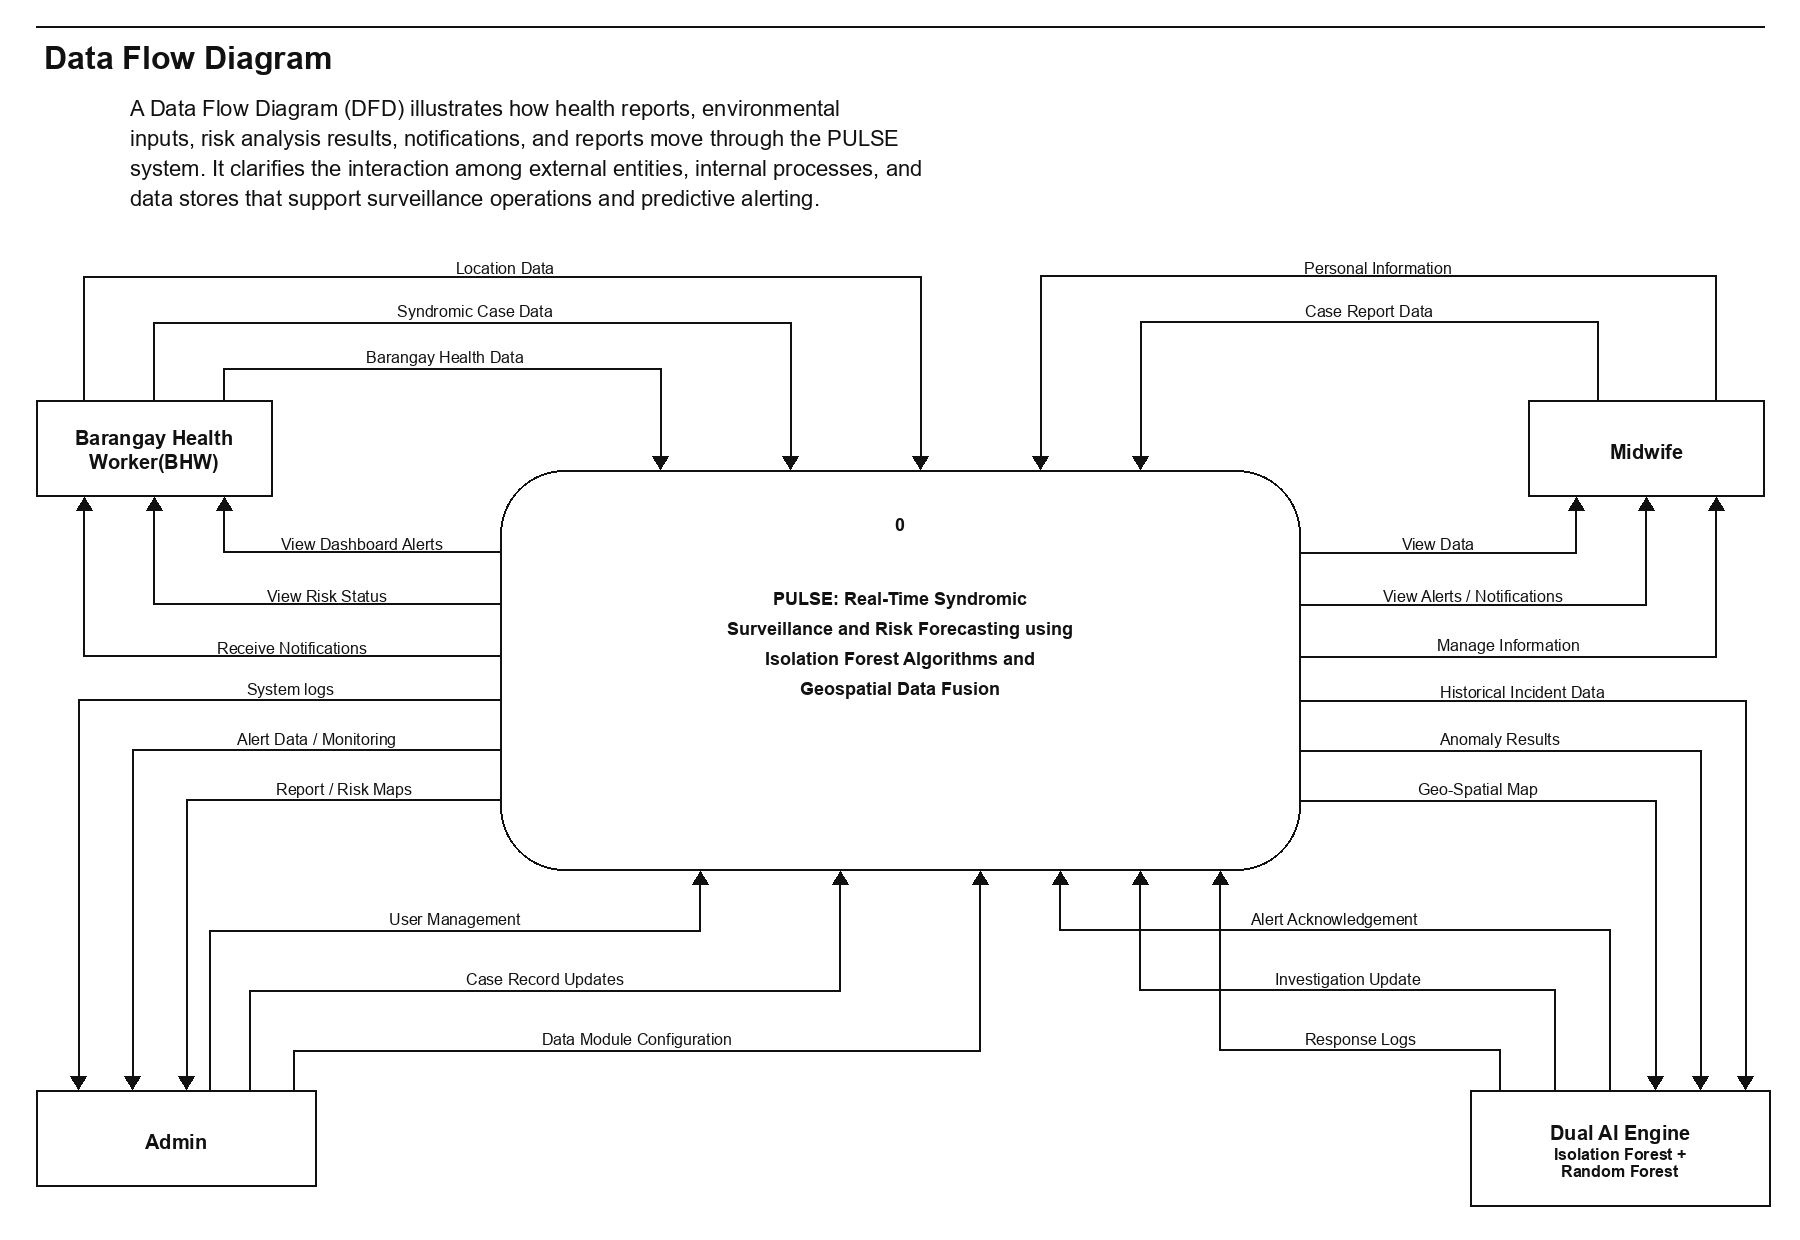
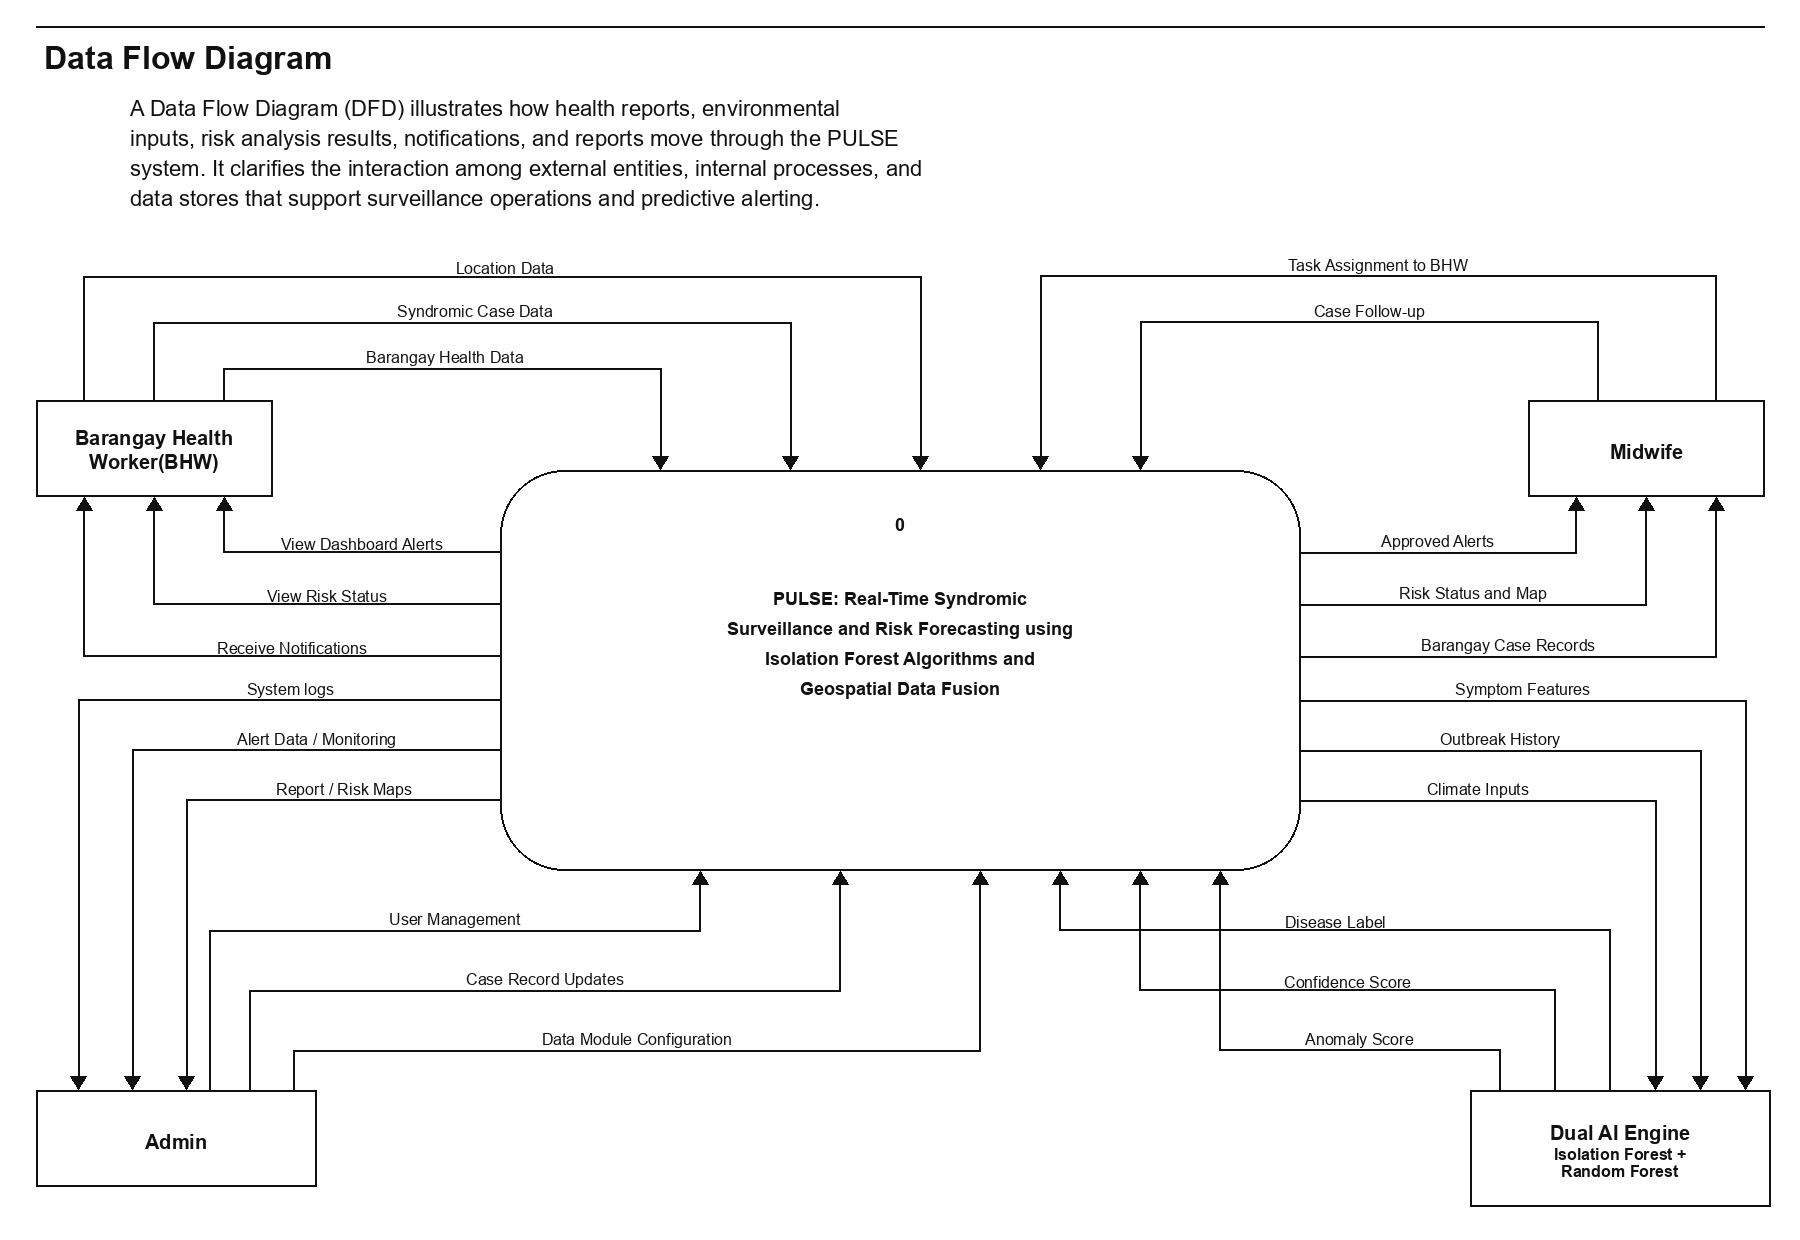
button

diff --git a/templates/reports/incident_reports.html b/templates/reports/incident_reports.html
@@ -11,13 +11,9 @@
       <p>Structured reports generated from validated surveillance data</p>
     </div>
     <div style="display: flex; gap: 1rem;">
-      <button type="button" onclick="exportToExcel()" class="nc-btn nc-btn--outline">
+      <button type="button" onclick="exportToExcel()" class="nc-btn nc-btn--primary">
         <i data-lucide="download" class="lucide-icon lucide-icon--sm"></i>
         Export Excel
-      </button>
-      <button type="button" onclick="window.print()" class="nc-btn nc-btn--primary">
-        <i data-lucide="printer" class="lucide-icon lucide-icon--sm"></i>
-        Print Report
       </button>
     </div>
   </header>

diff --git a/docs/_draw_dfd.py b/docs/_draw_dfd.py
@@ -118,7 +118,7 @@ for i, name in enumerate(["View Dashboard Alerts", "View Risk Status", "Receive 
     label(name, x1 + 12, px - 12, y)
 
 # Midwife -> process. Highest rail uses the rightmost stub.
-for i, name in enumerate(["Personal Information", "Case Report Data"]):
+for i, name in enumerate(["Task Assignment to BHW", "Case Follow-up"]):
     x0 = mid[0] + (188, 70)[i]
     y, xd = top_y[i], right_drop[i]
     stroke([(x0, mid[1]), (x0, y), (xd, y), (xd, py - 14)])
@@ -126,7 +126,7 @@ for i, name in enumerate(["Personal Information", "Case Report Data"]):
     label(name, xd + 14, x0 - 14, y)
 
 # process -> Midwife. Highest line lands nearest the process.
-for i, name in enumerate(["View Data", "View Alerts / Notifications", "Manage Information"]):
+for i, name in enumerate(["Approved Alerts", "Risk Status and Map", "Barangay Case Records"]):
     x1 = mid[0] + (48, 118, 188)[i]
     y = side_hi[i]
     stroke([(pr, y), (x1, y), (x1, mid[1] + mid[3] + 14)])
@@ -150,7 +150,7 @@ for i, name in enumerate(["User Management", "Case Record Updates", "Data Module
     label(name, min(x0, xd) + 12, max(x0, xd) - 12, y)
 
 # process -> Dual AI Engine. Highest line reaches farthest right.
-for i, name in enumerate(["Historical Incident Data", "Anomaly Results", "Geo-Spatial Map"]):
+for i, name in enumerate(["Symptom Features", "Outbreak History", "Climate Inputs"]):
     x1 = eng[0] + (275, 230, 185)[i]
     y = side_lo[i]
     stroke([(pr, y), (x1, y), (x1, eng[1] - 14)])
@@ -158,7 +158,7 @@ for i, name in enumerate(["Historical Incident Data", "Anomaly Results", "Geo-Sp
     label(name, pr + 12, x1 - 12, y)
 
 # Dual AI Engine -> process. Stubs stay to the right of those downward arrows.
-for i, name in enumerate(["Alert Acknowledgement", "Investigation Update", "Response Logs"]):
+for i, name in enumerate(["Disease Label", "Confidence Score", "Anomaly Score"]):
     # Up-stubs stay left of the downward arrows. The top rail is the longest.
     x0 = eng[0] + (140, 85, 30)[i]
     y, xd = bot_y[i], bot_right[i]
